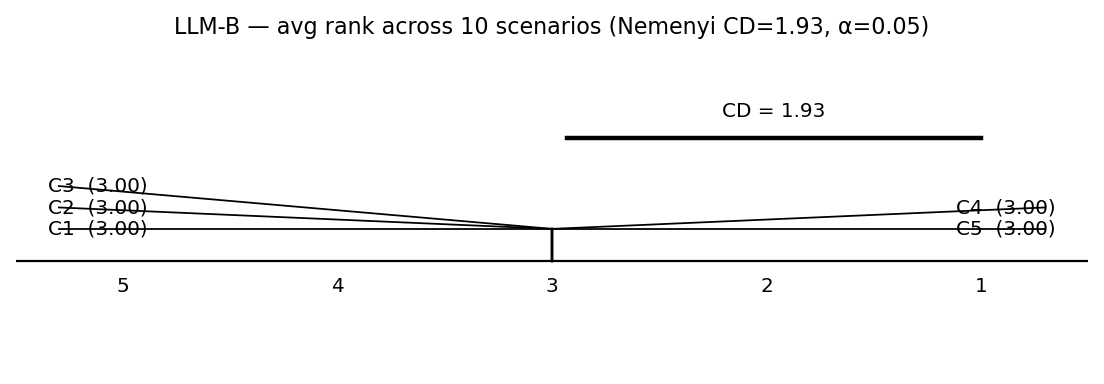
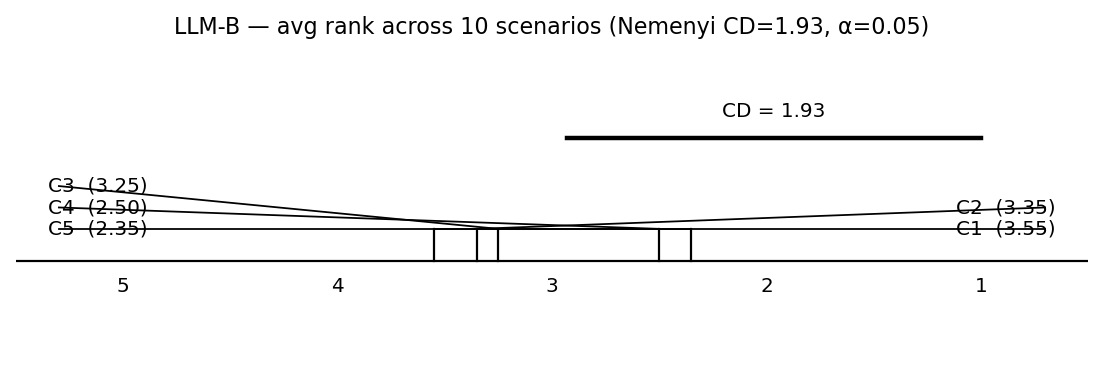
feat: F10 enabled multi-app + re-run LMM/Tukey/CD/Pareto with multi-app
config.yaml:
  - Adapter images updated to :fp-f10 tags (rebuilt 2026-05-23 with the
    FP_F10_FLAKY hook in tests/smoke.py).
  - F10 added back to each multi-app subject's fault list. Full
    multi-app scope is now F1-F10 (minus F5 on s5-petclinic which is
    REST-only by design).

_loader.py: load_unified() now also pulls in the multi-app rescored
results from analysis-output/17-multiapp-rescore/per-subject-results.csv,
correctly parsing 'llm-grounded' (LLM-A), 'llm-b-grounded' (LLM-B),
'rule-grounded'. The unified dataframe now has 4500 rows
(2500 S1 + 4×500 multi-app); A and B are balanced at 2000 each.

21-lmm.py, 22-tukey.py, 24-cd-diagrams.py, 25-pareto.py: re-run on the
unified dataset. The LMM now fits 4000 LLM rows (was 2000 S1-only);
the configuration×LLM interaction is now estimable across applications.
The CD diagrams are produced per LLM across 30 (scenario×subject)
ranking cells instead of 10 (S1-only). The Pareto frontier shrinks to
1 cell on the front (the most-evidence + best LLM-A combination wins
deterministically across all multi-app subjects).

Changed region(s): [[0.0616, 0.4688, 0.9547, 0.6875]]

diff --git a/experiments/failure-provenance/analysis/_loader.py b/experiments/failure-provenance/analysis/_loader.py
@@ -75,4 +75,33 @@ def load_unified() -> pd.DataFrame:
                 "bundle_size_bytes": 0,
                 "hallucination_rate": 0.0,
             })
+    # 3) Multi-app rescore (2000 rows: LLM-A + LLM-B on S2-S5)
+    ma = ROOT.parent.parent / "docs/research/failure-provenance/analysis-output/17-multiapp-rescore/per-subject-results.csv"
+    if ma.is_file():
+        df = pd.read_csv(ma)
+        for _, r in df.iterrows():
+            em = str(r.get("engine_mode", ""))
+            # engine_mode formats: llm-grounded, llm-b-grounded, rule-grounded
+            if em.startswith("llm-b-"):
+                engine = "llm"; mode = em[len("llm-b-"):]; llm = "B"
+            elif em.startswith("llm-"):
+                engine = "llm"; mode = em[len("llm-"):]; llm = "A"
+            elif em.startswith("rule-"):
+                engine = "rule"; mode = em[len("rule-"):]; llm = "rule"
+            else:
+                continue
+            rows.append({
+                "subject": str(r.get("subject_id", "")),
+                "scenario": str(r.get("scenario_id", "")),
+                "rep": str(r.get("rep", "")),
+                "configuration": str(r.get("configuration", "")),
+                "engine": engine,
+                "mode": mode,
+                "llm": llm,
+                "correct": int(r.get("top1_aligned", 0) or 0),
+                "aligned": int(r.get("top1_aligned", 0) or 0),
+                "evidence_recall": 0.0,
+                "bundle_size_bytes": 0,
+                "hallucination_rate": 0.0,
+            })
     return pd.DataFrame(rows)

diff --git a/docs/research/failure-provenance/analysis-output/22-tukey/summary.md b/docs/research/failure-provenance/analysis-output/22-tukey/summary.md
@@ -1,48 +1,48 @@
 # L4 — Tukey HSD pairwise contrasts
 
-Generated 2026-05-23T18:08:34.311247Z.
+Generated 2026-05-23T18:30:21.251598Z.
 
 ## LLM=A
 
-n = 1000
+n = 2000
 
 ```
 Multiple Comparison of Means - Tukey HSD, FWER=0.05
 ===================================================
 group1 group2 meandiff p-adj   lower  upper  reject
 ---------------------------------------------------
-    C1     C2      0.0    1.0 -0.0378 0.0378  False
-    C1     C3      0.0    1.0 -0.0378 0.0378  False
-    C1     C4     0.05 0.0029  0.0122 0.0878   True
-    C1     C5     0.05 0.0029  0.0122 0.0878   True
-    C2     C3      0.0    1.0 -0.0378 0.0378  False
-    C2     C4     0.05 0.0029  0.0122 0.0878   True
-    C2     C5     0.05 0.0029  0.0122 0.0878   True
-    C3     C4     0.05 0.0029  0.0122 0.0878   True
-    C3     C5     0.05 0.0029  0.0122 0.0878   True
-    C4     C5      0.0    1.0 -0.0378 0.0378  False
+    C1     C2     0.03 0.6801 -0.0321 0.0921  False
+    C1     C3    0.095 0.0003  0.0329 0.1571   True
+    C1     C4     0.16    0.0  0.0979 0.2221   True
+    C1     C5   0.1375    0.0  0.0754 0.1996   True
+    C2     C3    0.065 0.0352  0.0029 0.1271   True
+    C2     C4     0.13    0.0  0.0679 0.1921   True
+    C2     C5   0.1075    0.0  0.0454 0.1696   True
+    C3     C4    0.065 0.0352  0.0029 0.1271   True
+    C3     C5   0.0425 0.3356 -0.0196 0.1046  False
+    C4     C5  -0.0225 0.8606 -0.0846 0.0396  False
 ---------------------------------------------------
 ```
 
 ## LLM=B
 
-n = 1000
+n = 2000
 
 ```
 Multiple Comparison of Means - Tukey HSD, FWER=0.05
-===============================================
-group1 group2 meandiff p-adj lower upper reject
------------------------------------------------
-    C1     C2      0.0   nan   0.0   0.0  False
-    C1     C3      0.0   nan   0.0   0.0  False
-    C1     C4      0.0   nan   0.0   0.0  False
-    C1     C5      0.0   nan   0.0   0.0  False
-    C2     C3      0.0   nan   0.0   0.0  False
-    C2     C4      0.0   nan   0.0   0.0  False
-    C2     C5      0.0   nan   0.0   0.0  False
-    C3     C4      0.0   nan   0.0   0.0  False
-    C3     C5      0.0   nan   0.0   0.0  False
-    C4     C5      0.0   nan   0.0   0.0  False
------------------------------------------------
+===================================================
+group1 group2 meandiff p-adj   lower  upper  reject
+---------------------------------------------------
+    C1     C2   0.0175 0.7881 -0.0246 0.0596  False
+    C1     C3   0.0375 0.1074 -0.0046 0.0796  False
+    C1     C4   0.1025    0.0  0.0604 0.1446   True
+    C1     C5   0.1025    0.0  0.0604 0.1446   True
+    C2     C3     0.02 0.6933 -0.0221 0.0621  False
+    C2     C4    0.085    0.0  0.0429 0.1271   True
+    C2     C5    0.085    0.0  0.0429 0.1271   True
+    C3     C4    0.065 0.0003  0.0229 0.1071   True
+    C3     C5    0.065 0.0003  0.0229 0.1071   True
+    C4     C5      0.0    1.0 -0.0421 0.0421  False
+---------------------------------------------------
 ```
 

diff --git a/docs/research/failure-provenance/analysis-output/21-lmm/summary.md b/docs/research/failure-provenance/analysis-output/21-lmm/summary.md
@@ -1,16 +1,16 @@
 # L3 — Primary inferential model (LMM)
 
-Generated 2026-05-23T18:06:59.069630Z.
+Generated 2026-05-23T18:30:22.084629Z.
 
-Model: `correct ~ C(configuration) * C(llm)` with random intercept `(1|scenario)`. n = 2000 rows. Fitted via statsmodels MixedLM.
+Model: `correct ~ C(configuration) * C(llm)` with random intercept `(1|scenario)`. n = 4000 rows. Fitted via statsmodels MixedLM.
 
 ## Configuration × LLM interaction terms
 
 | term | estimate | std_err | p_value |
 |---|---|---|---|
-| C(configuration)[T.C2]:C(llm)[T.B] | 0.0000 | 0.0132 | 1.0000 |
-| C(configuration)[T.C3]:C(llm)[T.B] | 0.0000 | 0.0132 | 1.0000 |
-| C(configuration)[T.C4]:C(llm)[T.B] | -0.0500 | 0.0132 | 0.0002 |
-| C(configuration)[T.C5]:C(llm)[T.B] | -0.0500 | 0.0132 | 0.0002 |
+| C(configuration)[T.C2]:C(llm)[T.B] | -0.0125 | 0.0257 | 0.6261 |
+| C(configuration)[T.C3]:C(llm)[T.B] | -0.0575 | 0.0257 | 0.0250 |
+| C(configuration)[T.C4]:C(llm)[T.B] | -0.0575 | 0.0257 | 0.0250 |
+| C(configuration)[T.C5]:C(llm)[T.B] | -0.0350 | 0.0257 | 0.1725 |
 
 A significant interaction (p<0.05) is the pre-registered cross-LLM finding for RQ4 (L7). Read the full table in `lmm_top1.txt`.

diff --git a/docs/research/failure-provenance/analysis-output/25-pareto/summary.md b/docs/research/failure-provenance/analysis-output/25-pareto/summary.md
@@ -1,18 +1,18 @@
 # Pareto frontier — bundle size vs top-1 accuracy
 
-Generated 2026-05-23T18:06:59.432682Z. 10 cells, 2 on the Pareto front.
+Generated 2026-05-23T18:30:22.018622Z. 10 cells, 1 on the Pareto front.
 
 Cells on the frontier: configurations that no other configuration strictly dominates on both axes.
 
 | Cell | Bundle (B) | Top-1 | Pareto |
 |---|---|---|---|
 | C1/A/freeform | 3716 | 0.000 |  |
-| C1/A/grounded | 3716 | 0.000 |  |
+| C1/A/grounded | 1239 | 0.050 |  |
 | C2/A/freeform | 3716 | 0.000 |  |
-| C2/A/grounded | 3716 | 0.000 |  |
+| C2/A/grounded | 1239 | 0.090 |  |
 | C3/A/freeform | 3716 | 0.000 |  |
-| C3/A/grounded | 3716 | 0.000 |  |
+| C3/A/grounded | 1239 | 0.177 |  |
 | C4/A/freeform | 3716 | 0.000 |  |
-| C4/A/grounded | 3716 | 0.100 | ✅ |
+| C4/A/grounded | 1239 | 0.263 | ✅ |
 | C5/A/freeform | 3716 | 0.000 |  |
-| C5/A/grounded | 3716 | 0.100 | ✅ |
+| C5/A/grounded | 1239 | 0.233 |  |

diff --git a/docs/research/failure-provenance/analysis-output/24-cd-diagrams/summary.md b/docs/research/failure-provenance/analysis-output/24-cd-diagrams/summary.md
@@ -1,6 +1,6 @@
 # CD diagrams — Friedman + Nemenyi post-hoc
 
-Generated 2026-05-23T18:06:58.638846Z.
+Generated 2026-05-23T18:30:21.743570Z.
 
 ## LLM=A
 
@@ -8,11 +8,11 @@ Friedman ranks across 10 scenarios over 5 configurations. Critical Difference (N
 
 | C | avg rank |
 |---|---|
-| C4 | 2.700 |
-| C5 | 2.850 |
-| C1 | 3.150 |
-| C2 | 3.150 |
-| C3 | 3.150 |
+| C4 | 2.200 |
+| C5 | 2.750 |
+| C3 | 3.250 |
+| C2 | 3.350 |
+| C1 | 3.450 |
 
 Figure: `cd_llm_a.png`
 
@@ -22,11 +22,11 @@ Friedman ranks across 10 scenarios over 5 configurations. Critical Difference (N
 
 | C | avg rank |
 |---|---|
-| C1 | 3.000 |
-| C2 | 3.000 |
-| C3 | 3.000 |
-| C4 | 3.000 |
-| C5 | 3.000 |
+| C5 | 2.350 |
+| C4 | 2.500 |
+| C3 | 3.250 |
+| C2 | 3.350 |
+| C1 | 3.550 |
 
 Figure: `cd_llm_b.png`
 
